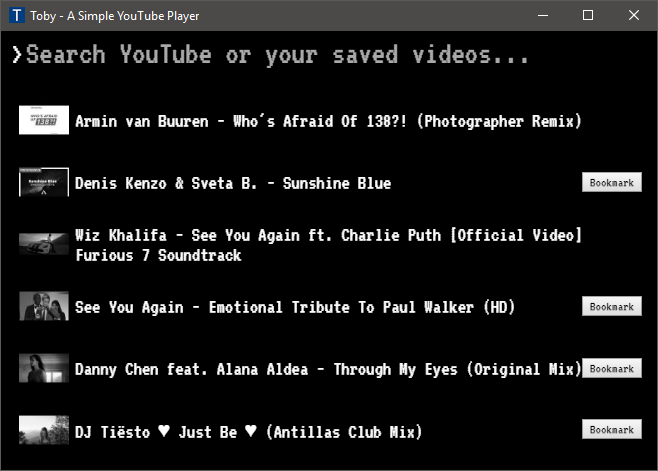
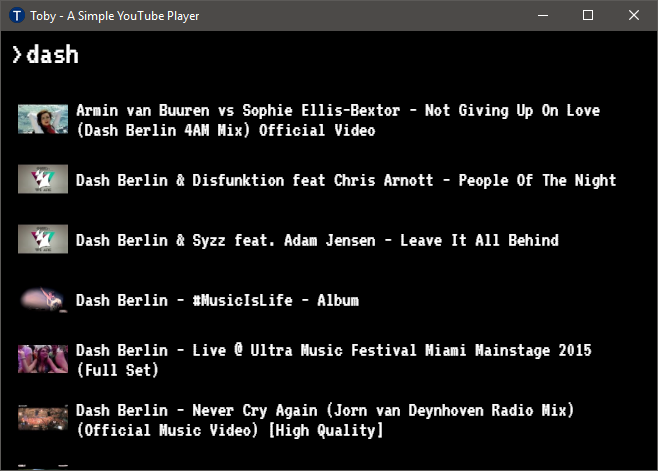
Polishing things up
- Added my video database just because. It's not needed but I'm going to
include it here anyway.

diff --git a/index.html b/index.html
@@ -6,60 +6,7 @@
 
     <link rel="stylesheet" href="http://fonts.googleapis.com/css?family=VT323" />
     <link rel="stylesheet" href="./public/components/font-awesome/css/font-awesome.min.css">
-
-    <style>
-      html, body {
-        background-color: #000;
-        color: #fff;
-        padding: 0;
-        margin: 0;
-        overflow: hidden;
-      }
-
-      * {
-        font-family: 'VT323', sans-serif;
-      }
-
-      #content {
-        position: absolute;
-        width: 100%;
-        height: 100%;
-        overflow: auto;
-        visibility: hidden;
-        padding: 10px;
-      }
-
-      #loading {
-        position: absolute;
-        width: 100%;
-        top: 45%;
-        text-align: center;
-      }
-
-      #webview {
-        position: absolute;
-        top: 0;
-        left: 0;
-        width: 100%;
-        height: 100%;
-        z-index: 1000;
-        display: none;
-      }
-
-      ::-webkit-scrollbar {
-        height: 8px;
-        width: 8px;
-        background: #000;
-      }
-      ::-webkit-scrollbar-thumb {
-        background: #999;
-        -webkit-border-radius: 1ex;
-        -webkit-box-shadow: 0px 1px 2px rgba(0, 0, 0, 0.75);
-      }
-      ::-webkit-scrollbar-corner {
-        background: #fff;
-      }
-    </style>
+    <link rel="stylesheet" href="./public/stylesheets/main.css">
 
     <script src="./public/components/jquery/dist/jquery.min.js"></script>
     <script src="./public/components/keymaster/keymaster.js"></script>
@@ -68,7 +15,7 @@
     <div id="loading">
       <i class="fa fa-spinner fa-spin fa-2x fa-fw margin-bottom"></i>
     </div>
-    <div id="content"></div>
+    <div id="content"></div>    
     <webview id="webview" allowtransparency></webview>
 
     <script src="./build/nw.js"></script>

diff --git a/src/toby-ui.js b/src/toby-ui.js
@@ -91,14 +91,17 @@ class TobyUI extends React.Component {
           socket.emit("title", { title: appTitle });
         }
         break;
-      case "/mc":
+      case "/monochrome":
         this.setState({ applyFilter: "grayscale" });
         break;
-      case "/sat":
+      case "/saturate":
         this.setState({ applyFilter: "saturate" });
         break;
-      case "/sep":
+      case "/sepia":
         this.setState({ applyFilter: "sepia" });
+        break;
+      case "/normal":
+        this.setState({ applyFilter: "normal" });
         break;
       case "/filter":
         if(commandSegments.length > 0) {
@@ -118,7 +121,7 @@ class TobyUI extends React.Component {
               break;
           }
         }
-        break;            
+        break;
       case "/history":
         this.performSearch("g: Recently Played");
         break;
@@ -131,7 +134,7 @@ class TobyUI extends React.Component {
             searchResults: this.buildVideoResults(data),
             manage: false
           });
-        });
+        }.bind(this));
         break;
       case "/manage":
         $.ajax({
@@ -198,7 +201,7 @@ class TobyUI extends React.Component {
       });
     }.bind(this));
 
-    return results;
+    return _.sortBy(results, "title");
   }
   addVideoButtonHandler(video, group) {
     let found = _.find(this.state.searchResults, { ytid: video.ytid });

diff --git a/src/api.js b/src/api.js
@@ -252,7 +252,7 @@ const API = (function(db) {
     // which defaults to 30
     db.getAllVideosForGroupFromDB("Recently Played", function(data) {
       // take top 30
-      let top30RecentlyPlayed = _.takeRight(data, maxRecentlyPlayedVideos);
+      let top30RecentlyPlayed = _.takeRight(_.uniqBy(data, "ytid"), maxRecentlyPlayedVideos);
 
       console.log(`before: ${data.length}`);
       console.log(`after: ${top30RecentlyPlayed.length}`);

diff --git a/public/stylesheets/app.css b/public/stylesheets/app.css
@@ -185,4 +185,5 @@ select:focus, select:active {
   right: 25px;
   font-weight: bold;
   color: #111;
+  opacity: .5;
 }

diff --git a/README.md b/README.md
@@ -10,9 +10,21 @@ Toby In Action:
 
 ![Toby In Action](screenshots/toby-video-playback.png)
 
+Toby Main UI:
+
+![Toby Main UI](screenshots/toby-main.png)
+
 Toby Video List:
 
 ![Toby Server Log](screenshots/toby-video-list.png)
+
+Toby Recently Played:
+
+![Toby Recently Played](screenshots/toby-recently-played.png)
+
+Toby Manage Videos:
+
+![Toby Manage Videos](screenshots/toby-manage.png)
 
 Toby Server Log:
 
@@ -137,24 +149,22 @@ search box that will perform various things.
 
 Here is a list (there will be additional ones added soon):
 
-NOTE: the names / functionality of these commands are rough and subject to
-change (they will most certainly change). These are listed in no particular
-order.
-
 - `[name hint]` : Lists locally saved videos based on the [name hint]
 - `yt: [search term]` : Searches YouTube for the [search term]
 - `g: [group name]` : Lists the videos for the [group name]
 - `/list` : List all videos contained in the database
-- `/rp` or `/history` : Lists the recently played videos
-- `/rptrim` : List last 30 recently played videos
+- `/history` : Lists the recently played videos
+- `/rp` or `/recently-played` : List last 30 recently played videos
 - `/manage` : Manage what groups videos are in and also provide ability to delete videos
 - `/archive` : Export the contents of the database to the data.txt file
 - `/clear` : Clears search results
-- `/mc` : (NW.js/Electron only) Short cut to set the monochrome video filter and
+- `/monochrome` : (NW.js/Electron only) Short cut to set the monochrome video filter and
 thumbnails in search results
-- `/sat` : (NW.js/Electron only) Short cut to set the saturated video filter and
+- `/saturate` : (NW.js/Electron only) Short cut to set the saturated video filter and
 thumbnails in search results
-- `/sep` : (NW.js/Electron only) Short cut to set the sepia video filter and
+- `/sepia` : (NW.js/Electron only) Short cut to set the sepia video filter and
+thumbnails in search results
+- `/normal` : (NW.js/Electron only) Short cut to set the normal video filter and
 thumbnails in search results
 - `/filter monochrome` : (NW.js/Electron only) Short cut to set the monochrome video filter and
 thumbnails in search results
@@ -170,7 +180,7 @@ thumbnails in search results
 - Usage info from within the app
 - Add `/import` to import new videos in the data.txt file
 - Add better support for larger data sets. Currently if there are a large number
-of search results (excluding YouTube searches which default to 25 results) all \
+of search results (excluding YouTube searches which default to 25 results) all
 the results will be listed.
 
 ### Updating the data file
